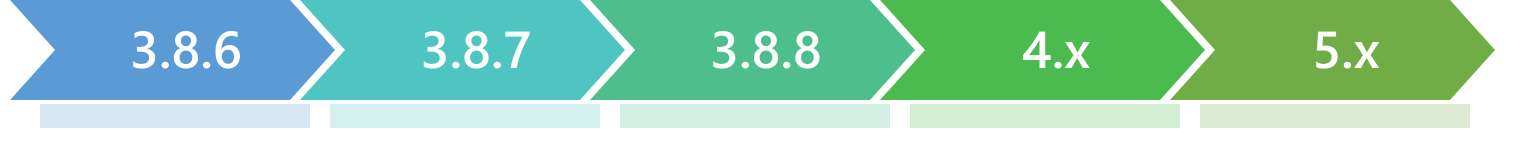
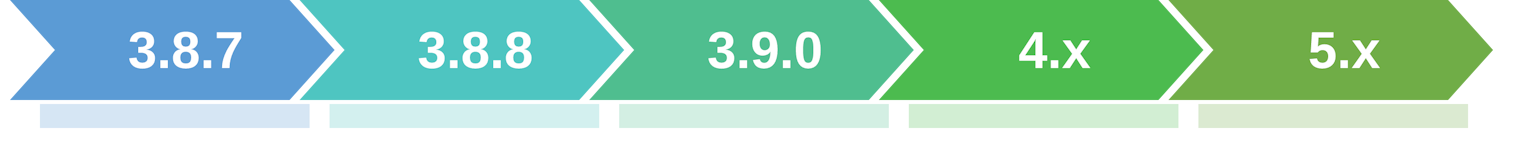
Update roadmap for 3.8.7. (#319)

diff --git a/roadmap/index.md b/roadmap/index.md
@@ -17,15 +17,6 @@ MonoGame continues to evolve as a modern game framework, while maintaining XNA c
 
 ## Roadmap
 
-### [3.8.6 - Q3 2026](https://github.com/MonoGame/MonoGame/milestone/24)
-
-This milestone continues our focus on adding new graphics backends, new major systems to improve portability, and further stability to the framework.
-
-- [Storage API Modernisation](https://github.com/MonoGame/MonoGame/issues/8518)
-- [DesktopGL4 Platform](https://github.com/MonoGame/MonoGame/pull/9491)
-- Content Builder Improvements
-- Stabilising DesktopVK / DesktopDX12
-
 ### [3.8.7 - Q4 2026](https://github.com/MonoGame/MonoGame/milestone/26)
 
 This milestone lays the foundations for future growth, by unifying our shader format and making the framework more accessible to new developers and players.
@@ -42,15 +33,21 @@ In this milestone we plan to improve on old XNA standards and address some long-
 - [Native Video Support](https://github.com/MonoGame/MonoGame/issues/7170)
 - Add Console Target Support to the MonoGame Hub
 
+### [3.9.0 - Q2 2027](https://github.com/MonoGame/MonoGame/milestone/17)
+
+The final move of all platforms to use unified native platform code as well as other helpful game APIs.
+
+- Metal Support
+- Move Mobile to Native
+- Unified Achievement API
+
 ### [4.x - TBD](https://github.com/MonoGame/MonoGame/milestone/10)
 
 The 4.x releases are intended to be the final releases that enforce the original XNA APIs while adding in new modern features and the next iteration of our mobile support.
 
 - Compute Shaders
 - Command Buffers
-- Metal Support
-- Vulkan on Android
-- Unified Achievement API
+- TBD
 
 ### [5.x - TBD](https://github.com/MonoGame/MonoGame/milestone/15)
 
